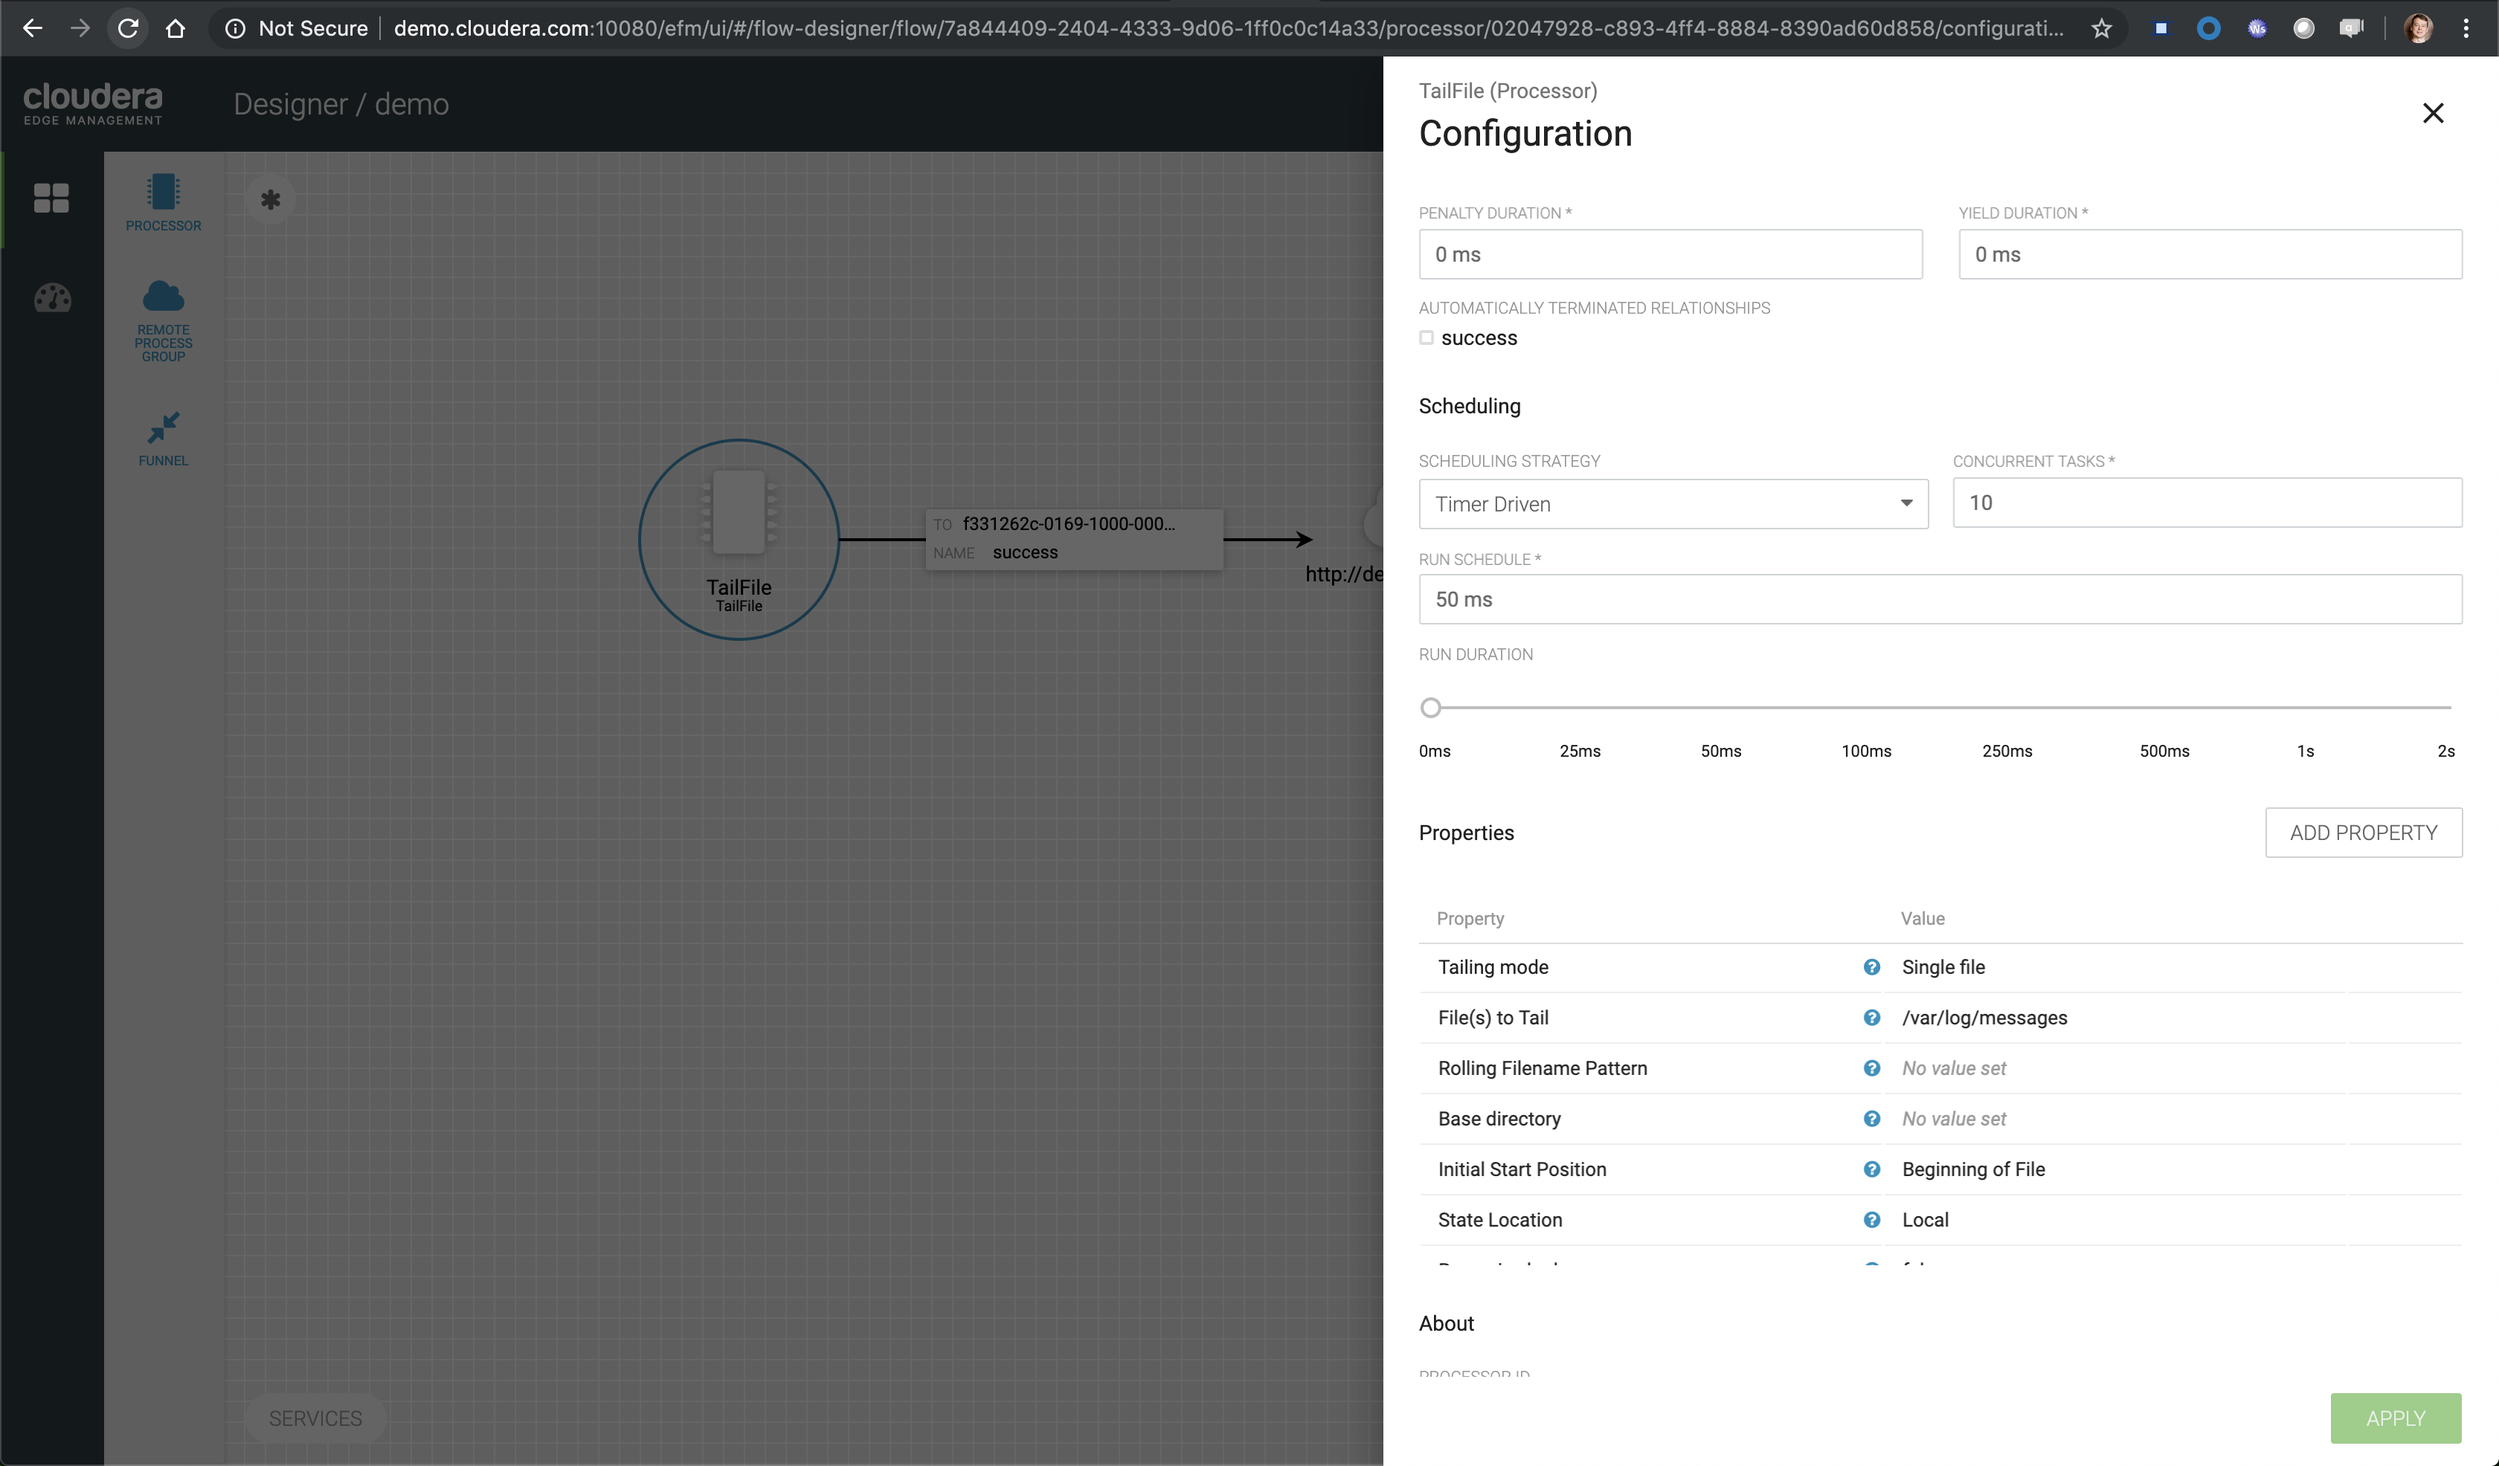
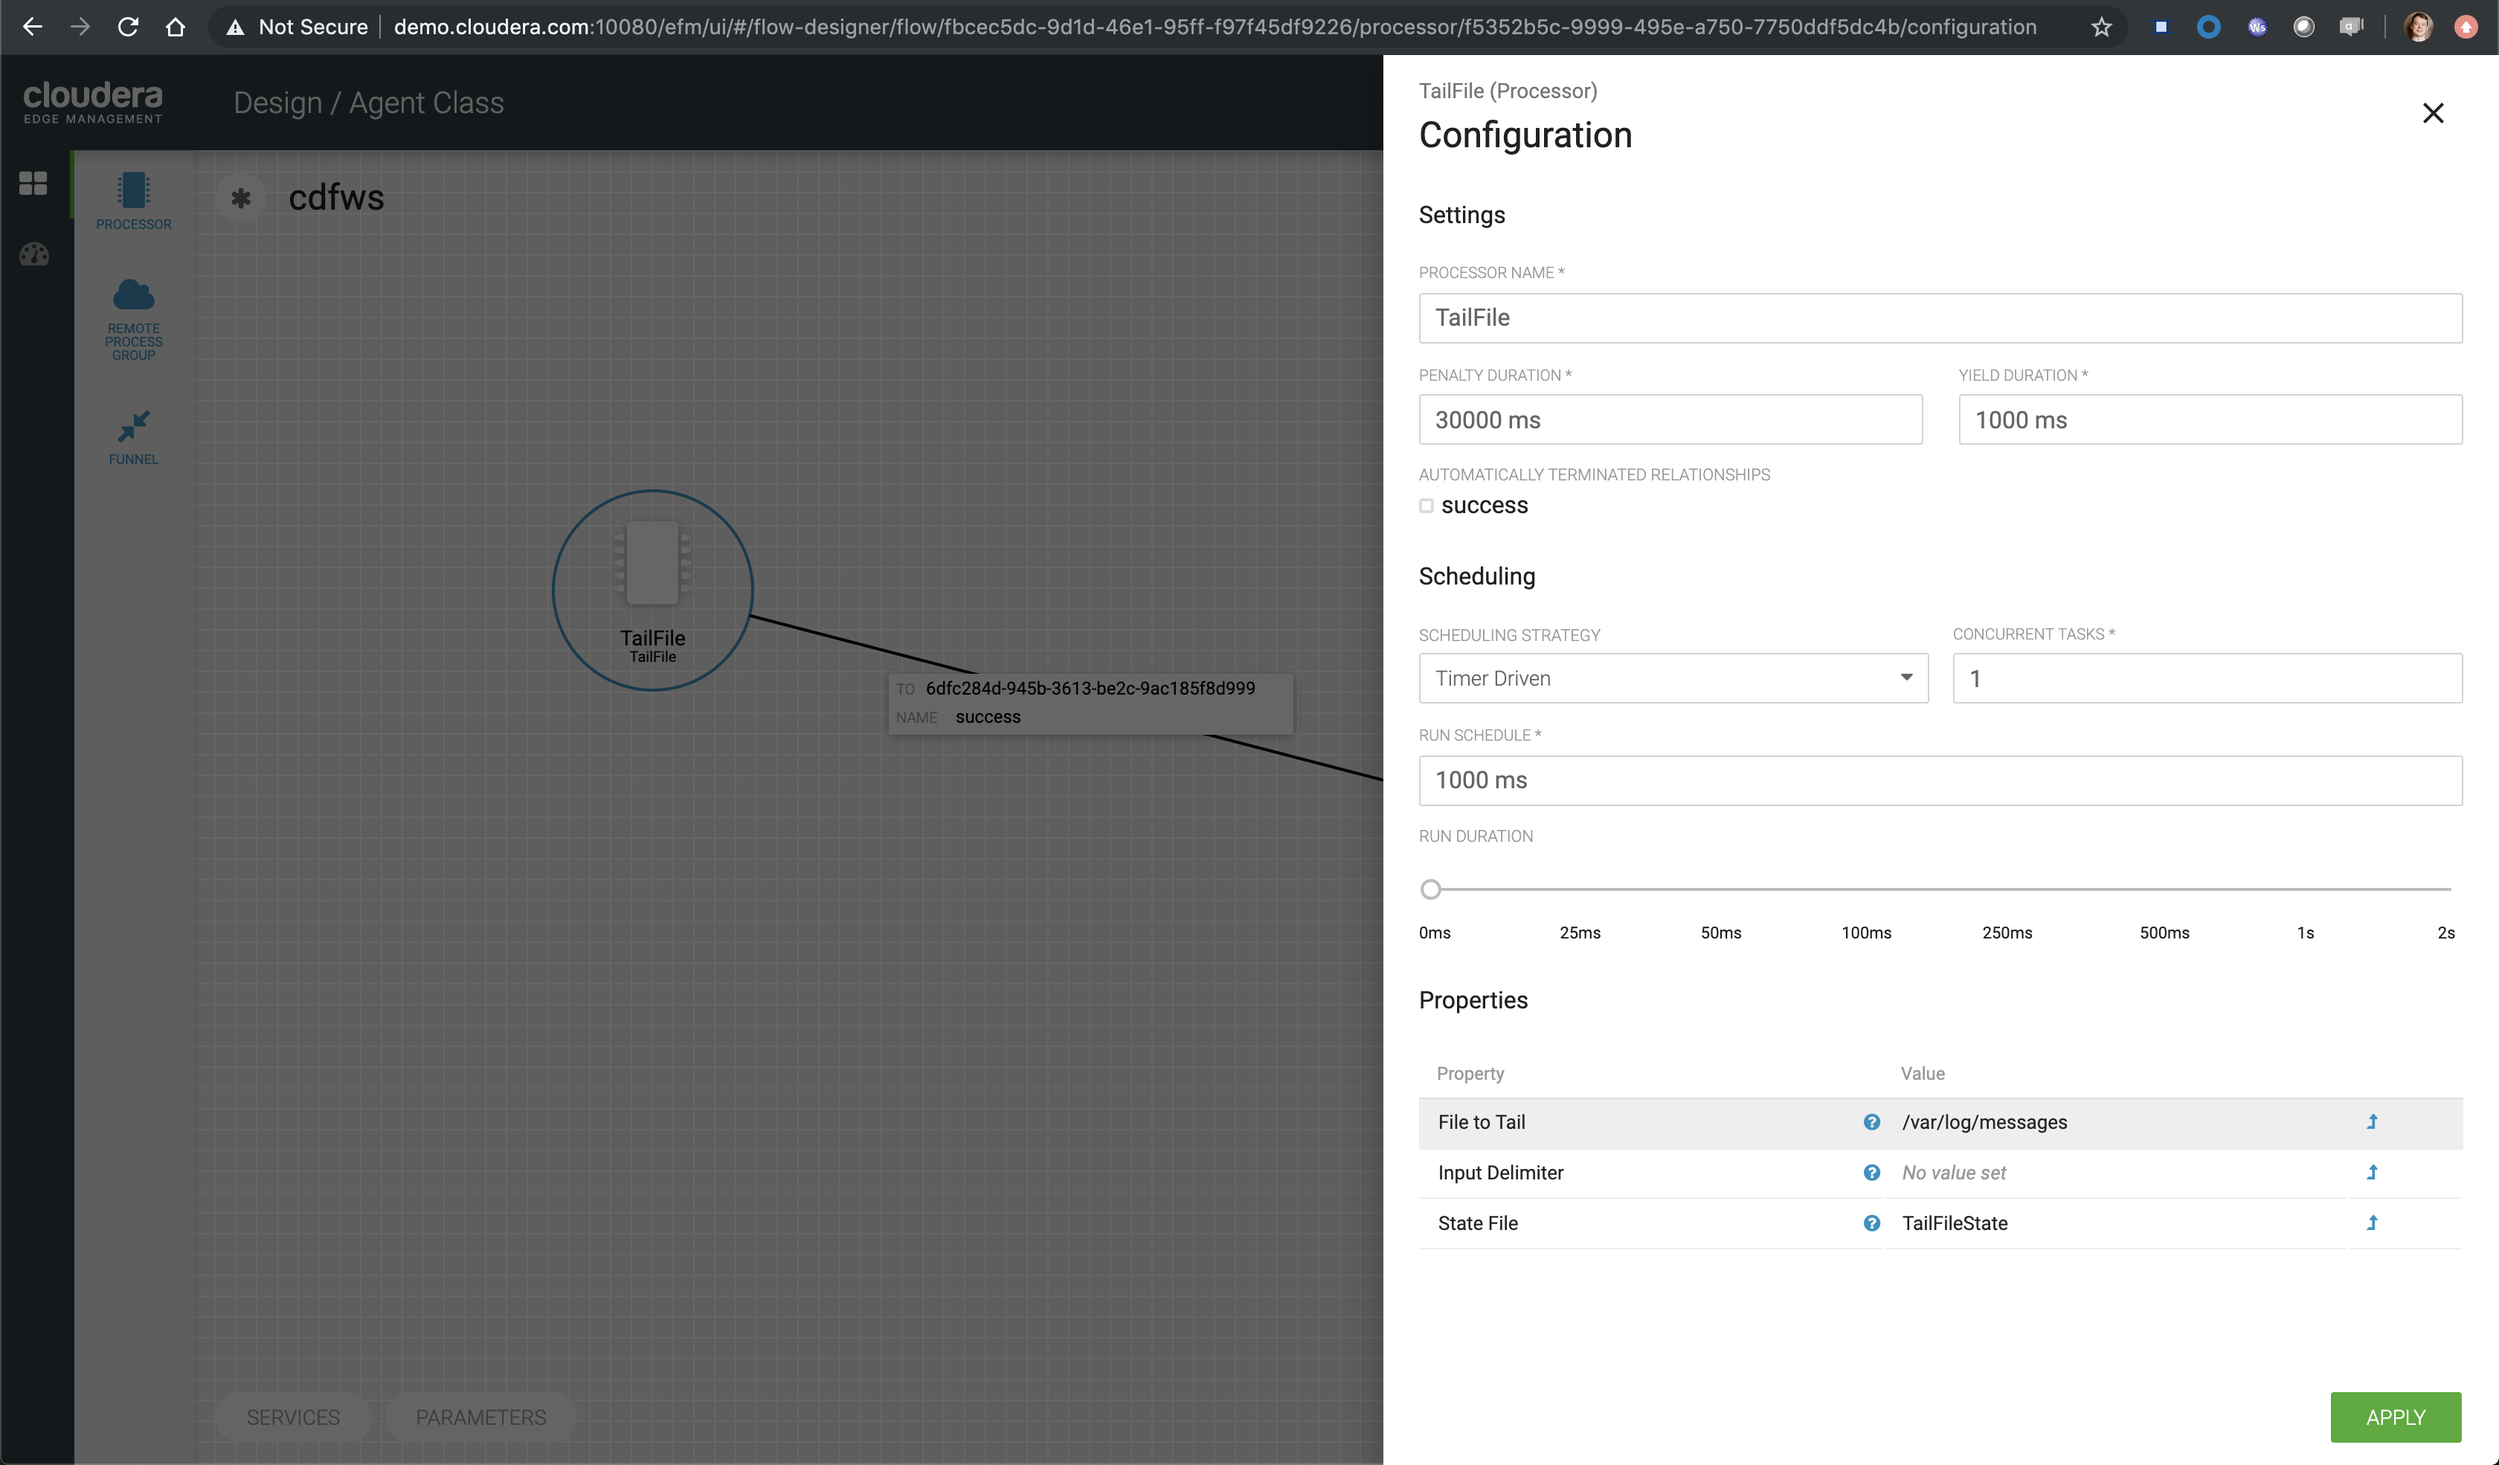
update

diff --git a/README.md b/README.md
@@ -321,7 +321,7 @@ You can check if the retention was set properly:
 
 Before we implement the next workflow, we need to create one Hive external table and start the corresponding Druid source indexing
 
-Visit [DAS](http://demo.cloudera.com:30800/)
+Visit [Data Analytics Studio (DAS)](http://demo.cloudera.com:30800/)
 
 Click on the **COMPOSE QUERY** button and run the queries below
 
@@ -485,23 +485,117 @@ From this query, create a dashboard that will refresh automatically
 
 ## Collect syslog data using MiNiFi and EFM
 
-Go to NiFi Registry and create a bucket named **demo**
-
-As root (sudo su -) start EFM and MiNiFi
-
-```bash
-service efm start
-service minifi start
-```
 Visit [EFM UI](http://demo.cloudera.com:10080/efm/ui/)
 
-You should see heartbeats coming from the agent
+![EFM UI](images/efm-ui.png)
 
-![EFM agents monitor](images/efm-agents-monitor.png)
+Click on the **EVENTS** tab. List is empty as we havent deployed any MiNiFi agent yet.
 
-Now, **on the root canvas**, create a simple flow to collect local syslog messages and forward them to NiFi, where the logs will be parsed, transformed into another format and pushed to a Kafka topic.
+![EFM Event 1](images/efm-event-1.png)
 
-Our agent has been tagged with the class 'demo' (check nifi.c2.agent.class property in /usr/minifi/conf/bootstrap.conf) so we are going to create a template under this specific class
+A MiNiFi C++ archive (nifi-minifi-cpp-centos-0.7.0-bin.tar.gz) as been uploaded to **/home/centos** already. Deploy it, configure and start it as follow:
+
+```bash
+cd /home/centos
+tar -xvf nifi-minifi-cpp-centos-0.7.0-bin.tar.gz
+cd nifi-minifi-cpp-0.7.0
+mv conf/minifi.properties conf/minifi.properties.bk
+vim conf/minifi.properties
+```
+
+And copy/paste this [content](https://raw.githubusercontent.com/charlesb/CDF-workshop/master/minifi/minifi.properties)):
+
+```properties
+# Core Properties #
+nifi.version=0.7.0
+nifi.flow.configuration.file=./conf/config.yml
+nifi.administrative.yield.duration=30 sec
+# If a component has no work to do (is "bored"), how long should we wait before checking again for work?
+nifi.bored.yield.duration=10 millis
+
+# Provenance Repository #
+nifi.provenance.repository.directory.default=/home/centos/nifi-minifi-cpp-0.7.0/provenance_repository
+nifi.provenance.repository.max.storage.time=1 MIN
+nifi.provenance.repository.max.storage.size=1 MB
+nifi.flowfile.repository.directory.default=/home/centos/nifi-minifi-cpp-0.7.0/flowfile_repository
+nifi.database.content.repository.directory.default=/home/centos/nifi-minifi-cpp-0.7.0/content_repository
+
+#nifi.remote.input.secure=true
+#nifi.security.need.ClientAuth=
+#nifi.security.client.certificate=
+#nifi.security.client.private.key=
+#nifi.security.client.pass.phrase=
+#nifi.security.client.ca.certificate=
+
+#nifi.rest.api.user.name=admin
+#nifi.rest.api.password=password
+
+## Enabling C2 Uncomment each of the following options
+## define those with missing options
+nifi.c2.enable=true
+## define protocol parameters
+## The default is CoAP, if that extension is built. 
+## Alternatively, you may use RESTSender if http-curl is built
+nifi.c2.agent.protocol.class=RESTSender
+#nifi.c2.agent.coap.host=
+#nifi.c2.agent.coap.port=
+## base URL of the c2 server,
+## very likely the same base url of rest urls
+#nifi.c2.flow.base.url=
+nifi.c2.rest.url=http://demo.cloudera.com:10080/efm/api/c2-protocol/heartbeat
+nifi.c2.rest.url.ack=http://demo.cloudera.com:10080/efm/api/c2-protocol/acknowledge
+nifi.c2.root.classes=DeviceInfoNode,AgentInformation,FlowInformation
+## heartbeat 4 times a second
+nifi.c2.agent.heartbeat.period=1000
+## define parameters about your agent 
+nifi.c2.agent.class=cdfws
+nifi.c2.agent.identifier=cdfws
+## define metrics reported
+nifi.c2.root.class.definitions=metrics
+nifi.c2.root.class.definitions.metrics.name=metrics
+nifi.c2.root.class.definitions.metrics.metrics=typedmetrics
+nifi.c2.root.class.definitions.metrics.metrics.typedmetrics.name=RuntimeMetrics
+nifi.c2.root.class.definitions.metrics.metrics.queuemetrics.name=QueueMetrics
+nifi.c2.root.class.definitions.metrics.metrics.queuemetrics.classes=QueueMetrics
+nifi.c2.root.class.definitions.metrics.metrics.typedmetrics.classes=ProcessMetrics,SystemInformation
+nifi.c2.root.class.definitions.metrics.metrics.processorMetrics.name=ProcessorMetric
+nifi.c2.root.class.definitions.metrics.metrics.processorMetrics.classes=GetFileMetrics
+
+## enable the controller socket provider on port 9998
+## off by default. C2 must be enabled to support these
+controller.socket.host=demo.cloudera.com
+controller.socket.port=9998
+
+
+#JNI properties
+nifi.framework.dir=/home/centos/nifi-minifi-cpp-0.7.0/minifi-jni/lib
+nifi.nar.directory=/home/centos/nifi-minifi-cpp-0.7.0/minifi-jni/nars
+nifi.nar.deploy.directory=/home/centos/nifi-minifi-cpp-0.7.0/minifi-jni/nardeploy
+nifi.nar.docs.directory=/home/centos/nifi-minifi-cpp-0.7.0/minifi-jni/nardocs
+# must be comma separated 
+nifi.jvm.options=-Xmx1G
+nifi.python.processor.dir=/home/centos/nifi-minifi-cpp-0.7.0/minifi-python/
+
+c2.agent.heartbeat.reporter.classes=RESTReceiver
+```
+
+Then start MiNiFi agent with sudo using the command below:
+
+```bash
+sudo ./bin/minifi.sh start
+```
+
+The EFM UI Events tab should show some heartbeats now
+
+![EFM Event 1](images/efm-event-2.png)
+
+Before we create a flow we need to create a bucket
+
+Go to [NiFi Registry](http://demo.cloudera.com:61080/nifi-registry/explorer/grid-list) and create a bucket named **efm_demo**
+
+Now, **on the NiFi root canvas**, create a simple flow to collect local syslog messages and forward them to NiFi, where the logs will be parsed, transformed into another format and pushed to a Kafka topic.
+
+Our agent has been tagged with the class 'cdfws' so we are going to create a template under this specific class.
 
 But first we need to add an Input Port to the root canvas of NiFi and build a flow as described before. Input Port are used to receive flow files from remote MiNiFi agents or other NiFi instances.
 
@@ -520,8 +614,6 @@ Now that we have built the NiFi flow that will receive the logs, let's go back t
 This MiNiFi agent will tail /var/log/messages and send the logs to a remote process group (our NiFi instance) using the Input Port.
 
 ![Tailfile](images/tail-file.png)
-
-Don't forget to increase the scheduler!
 
 Please note that the NiFi instance has been configured to receive data over HTTP only, not RAW
 
